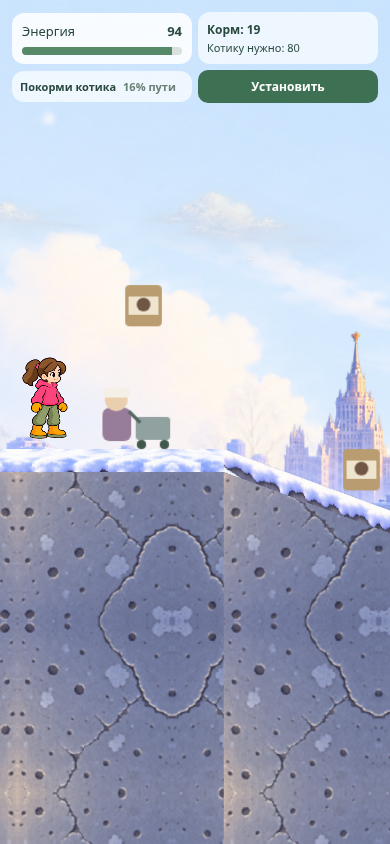
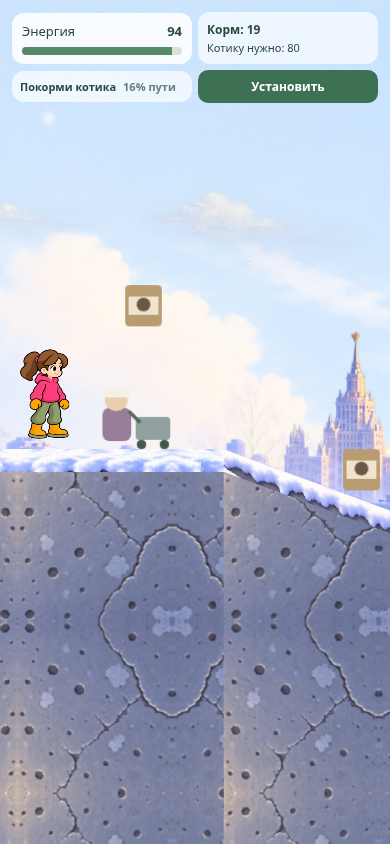
Increase Tanya readability scale and smooth silhouette

Changed region(s): [[0.0308, 0.4005, 0.1846, 0.5237]]

diff --git a/src/tanya-visual.ts b/src/tanya-visual.ts
@@ -8,8 +8,8 @@ export type TanyaVisualContext = { resting: boolean; tired: boolean; recovering:
 export const tanyaArt = {
   key: 'tanya:stand', file: 'assets/characters/tanya/tanya-stand.png',
   sourceWidth: 1024, sourceHeight: 1536,
-  frame: { x: 131, y: 80, width: 781, height: 1408 },
-  renderedHeight: 70.928, rasterHeight: 248, rasterWidth: 138,
+  frame: { x: 132, y: 76, width: 779, height: 1412 },
+  renderedHeight: 78.0208, rasterHeight: 248, rasterWidth: 138,
   displayKey: 'tanya:stand-display',
 };
 type TanyaPose = { key: string; frame: string; renderedHeight: number };
@@ -51,9 +51,9 @@ export class TanyaVisual {
       texture.refresh();
     }
     // Contact shadow only: no physics and no floating shadow during jumps/falls.
-    this.footShadow = scene.add.ellipse(0, 0, 28, 5, 0x36465b)
+    this.footShadow = scene.add.ellipse(0, 0, 30.8, 5.5, 0x36465b)
       .setData('tanyaFootShadow', true);
-    this.contactShadow = scene.add.ellipse(0, 0, 18, 2, 0x2c394b)
+    this.contactShadow = scene.add.ellipse(0, 0, 19.8, 2.2, 0x2c394b)
       .setData('tanyaContactShadow', true);
     this.sprite = scene.add.image(0, 0, stand.key, stand.frame)
       .setOrigin(.5, 1).setScale(tanyaArt.renderedHeight / tanyaArt.rasterHeight).setFlipX(false);

diff --git a/docs/tanya/README.md b/docs/tanya/README.md
@@ -1,12 +1,12 @@
 # Tanya — static character integration
 
-> Latest phone request: soften the neck/collar using warm skin and muted rose
-> shadows instead of the black neck wedge; preserve design, palette and size.
+> Latest phone request: +10% visual scale, lightly simplified hair/leg/boot contours.
+> Preserve soft warm neck/collar, palette, physics and existing ground shadows.
 > Previous approved simplifications: cleaner silhouette, cohesive ponytail, larger head/mittens/boots,
 > no backpack/straps/fur cuffs/tread details. Three dominant clothing colors:
 > hot pink, olive, orange. Mittens match the orange boots, soles match olive trousers;
-> the jacket center seam is removed. Overall size remains **39.468×70.928 world px** (scale0.286).
-> Source crop: x131,y80,w781,h1408. Separate28×5px foot shadow (alpha0.14) and18×2px contact shadow (alpha0.18),
+> the jacket center seam is removed. Overall size remains **43.4148×78.0208 world px** (scale0.3146).
+> Source crop: x132,y76,w779,h1412. Separate30.8×5.5px foot shadow (alpha0.14) and19.8×2.2px contact shadow (alpha0.18),
 > visible only while grounded and not resting/recovering; no physics. Body and
 > foot anchor unchanged. The original integration audit below is historical.
 

diff --git a/GAME_DESIGN.md b/GAME_DESIGN.md
@@ -1640,3 +1640,14 @@ Replace the harsh black neck wedge/line with warm peach skin shadow and muted
 rose inside the hoodie collar. Preserve the current character, palette, pose,
 visual size, separate grounded shadows and all physics/gameplay.
 Source1024×1536; updated crop(131,80,781,1408), height70.928px unchanged.
+
+
+## 41. Approved +10% readability scale and silhouette cleanup
+
+Increase Tanya presentation by10% from §40:78.0208px height,43.4148px frame
+width, scale0.3146. Lightly clean hair, leg and boot contours while preserving
+pose, design, softened neck/collar, pink hoodie, olive pants/soles and orange
+mittens/boots. Source1024×1536, crop(132,76,779,1412).
+Existing grounded-only foot/contact shadows scale to30.8×5.5 and19.8×2.2px,
+keeping their opacity, foot anchor and lifecycle. No duplicate/baked shadow.
+Physics body24×50, movement, level geometry, energy and camera unchanged.
